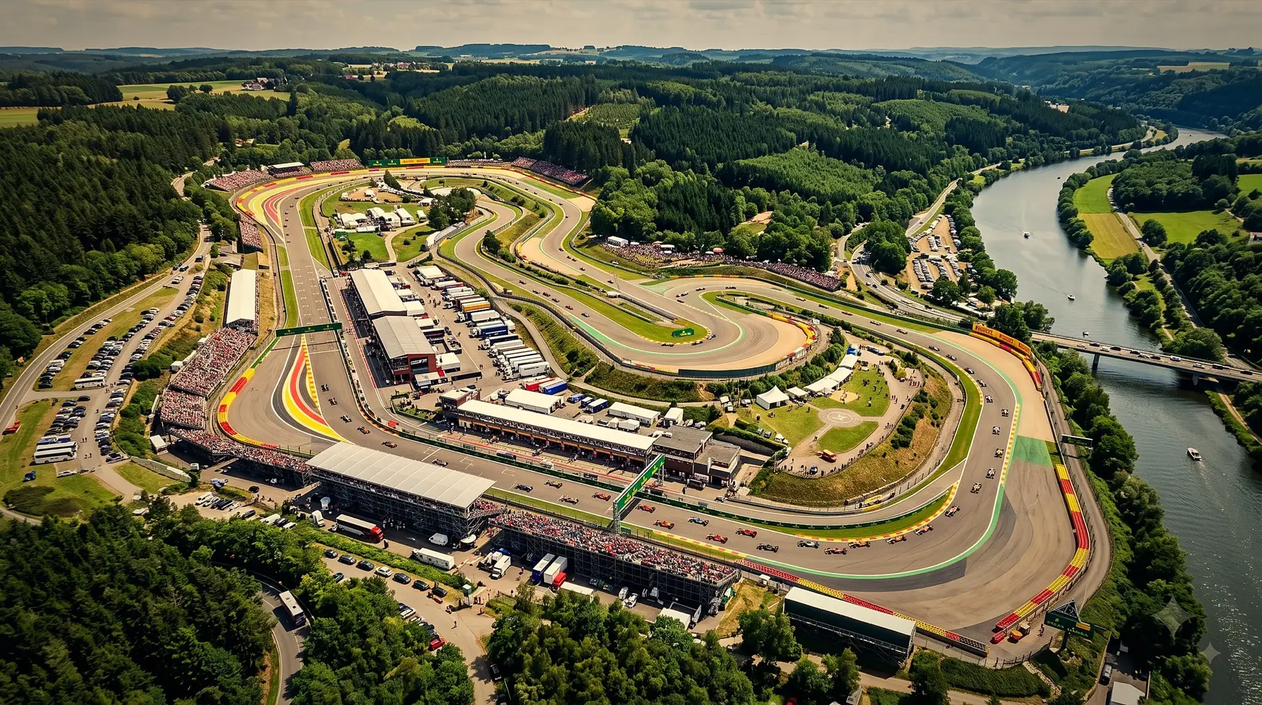
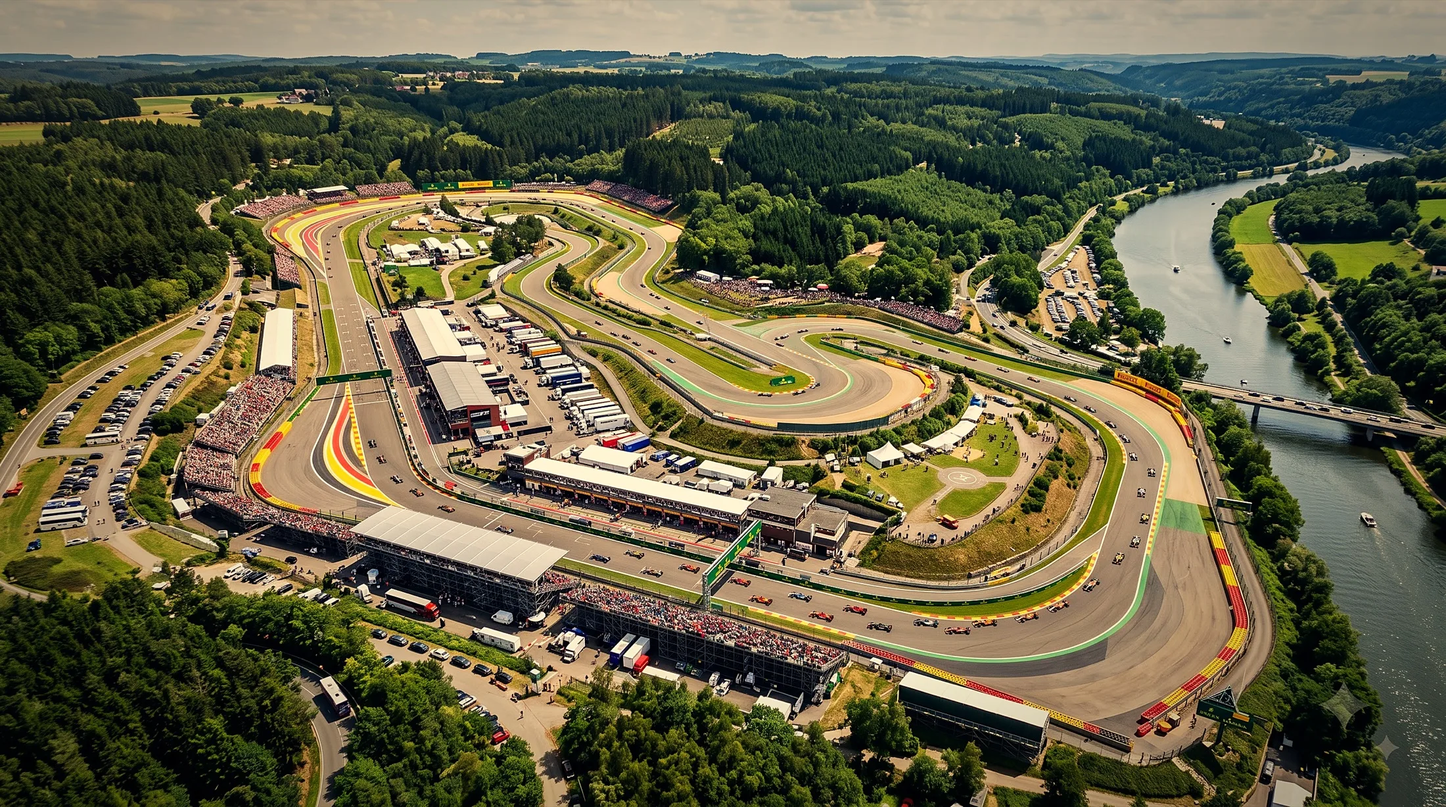
Full-quality maps restored and preloaded from home (blurred placeholder), faster START lights, quicker scan-screen notes

diff --git a/src/pages/Home.jsx b/src/pages/Home.jsx
@@ -35,6 +35,18 @@ const readHintDone = () => {
   }
 }
 
+let mapWarmed = false
+function warmMap(priority) {
+  if (mapWarmed) return
+  mapWarmed = true
+  const img = new Image()
+  img.fetchPriority = priority
+  img.decoding = 'async'
+  img.src = '/images/map-day.webp'
+  // decode ahead too, so the first frame of the map paints without a hitch
+  img.decode?.().catch(() => {})
+}
+
 // START: the five lights come on one by one, go out — and away we go
 function useRaceStart() {
   const navigate = useNavigate()
@@ -55,9 +67,10 @@ function useRaceStart() {
     if (reduce) return navigate('/map')
     setRunning(true)
     const at = (ms, fn) => timers.current.push(setTimeout(fn, ms))
-    for (let i = 1; i <= 5; i++) at(i * 200, () => setLit(i))
-    at(1000 + 350, () => setLit(0)) // lights out
-    at(1000 + 550, () => navigate('/map'))
+    // quick, like the real thing: five lights in half a second, lights out, go
+    for (let i = 1; i <= 5; i++) at(i * 100, () => setLit(i))
+    at(500 + 120, () => setLit(0)) // lights out
+    at(500 + 220, () => navigate('/map'))
   }, [running, reduce, navigate])
 
   return { lit, running, start }
@@ -75,6 +88,13 @@ export default function Home() {
   const [hint, setHint] = useState(false)
 
   // first-time visitors get a short "how this works" card after a moment
+  // the map is the next stop: fetch its full-quality image quietly once home has settled,
+  // and again (high priority) the moment someone points at START — so it's cached by the time it opens
+  useEffect(() => {
+    const t = setTimeout(() => warmMap('low'), 1800)
+    return () => clearTimeout(t)
+  }, [])
+
   useEffect(() => {
     if (readHintDone()) return
     const t = setTimeout(() => setHint(true), 1800)
@@ -210,6 +230,8 @@ export default function Home() {
               to="/map"
               className="hero-start"
               aria-label="Start — open the circuit map"
+              onPointerEnter={() => warmMap('high')}
+              onFocus={() => warmMap('high')}
               onClick={(e) => {
                 if (e.metaKey || e.ctrlKey || e.shiftKey || e.button !== 0) return
                 e.preventDefault()

diff --git a/src/components/about/PassGate.jsx b/src/components/about/PassGate.jsx
@@ -343,7 +343,7 @@ function GateNotes({ show }) {
       transition={{ duration: show ? 0.4 : 0.15 }}
     >
       {NOTES.map((n, i) => {
-        const delay = 1.15 + i * 0.32
+        const delay = 0.45 + i * 0.12
         return (
           <div key={i} className={`gate-note is-${n.side}`} style={{ top: `${n.top}%` }}>
             <svg className="gate-note-arrow" viewBox="0 0 70 40">
@@ -351,20 +351,20 @@ function GateNotes({ show }) {
                 d="M3 8 C 22 2, 44 6, 62 28"
                 initial={{ pathLength: 0 }}
                 animate={{ pathLength: 1 }}
-                transition={{ duration: 0.45, delay, ease: [0.6, 0, 0.3, 1] }}
+                transition={{ duration: 0.35, delay, ease: [0.6, 0, 0.3, 1] }}
               />
               <motion.path
                 d="M52 27 L63 29 L61 18"
                 initial={{ pathLength: 0, opacity: 0 }}
                 animate={{ pathLength: 1, opacity: 1 }}
-                transition={{ duration: 0.2, delay: delay + 0.4 }}
+                transition={{ duration: 0.18, delay: delay + 0.3 }}
               />
             </svg>
             <motion.p
               className="gate-note-text"
               initial={{ opacity: 0, y: 6 }}
               animate={{ opacity: 1, y: 0 }}
-              transition={{ duration: 0.4, delay: delay + 0.15, ease: [0.22, 1, 0.36, 1] }}
+              transition={{ duration: 0.35, delay: delay + 0.08, ease: [0.22, 1, 0.36, 1] }}
             >
               {n.text}
               <small>{n.sub}</small>

diff --git a/src/styles/map.css b/src/styles/map.css
@@ -18,6 +18,8 @@
 /* ---------- Map ---------- */
 .map-layer {
   position: absolute;
+  /* a 0.5 KB blurred copy shows instantly while the full map loads over it */
+  background: #2a3a22 url('/images/map-day-tiny.webp') center / cover no-repeat;
   left: calc(-41 * var(--u));
   top: calc(-79 * var(--u));
   /* Figma: 1639 × 915, grown when needed so it always covers the screen */
